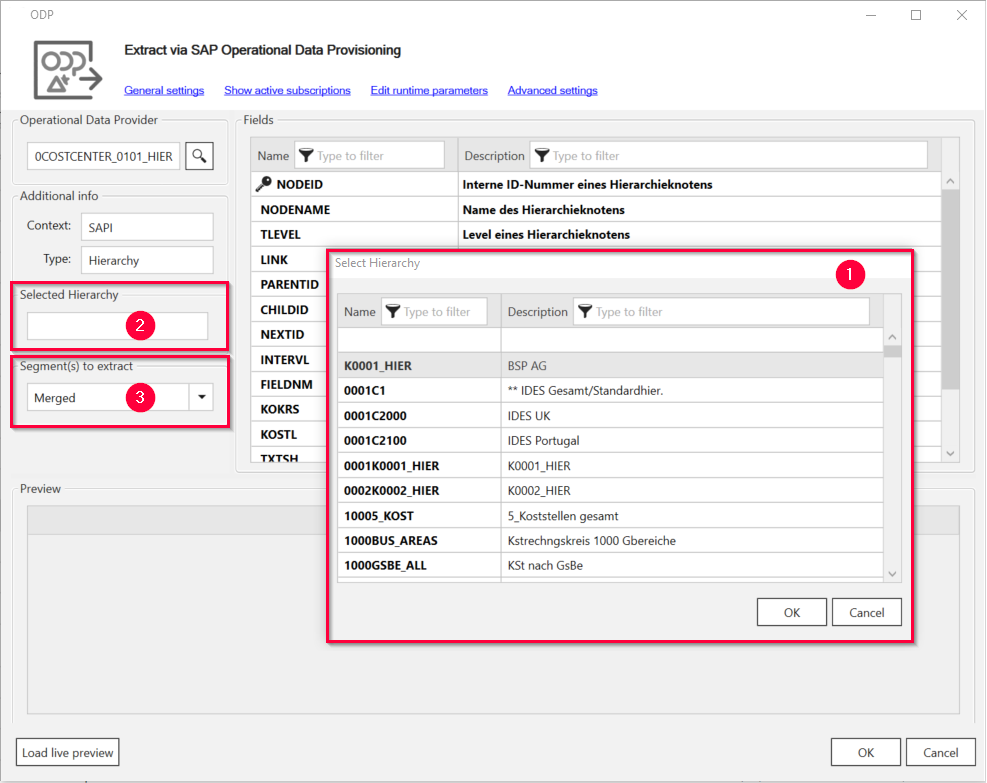
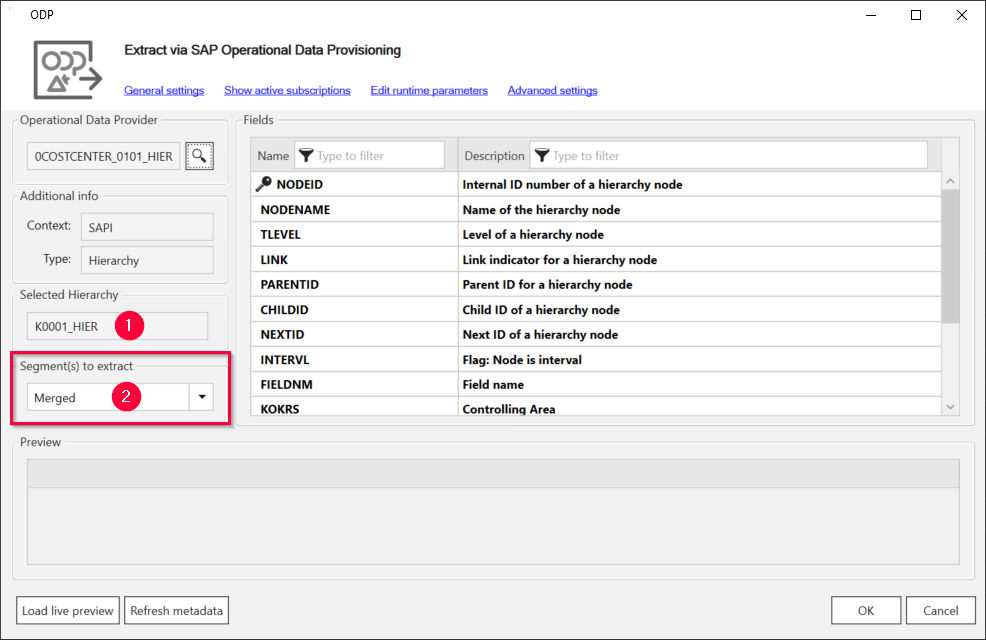
XU: ODP small changes

diff --git a/_includes/_content/de/odp/odp-hierarchy.md b/_includes/_content/de/odp/odp-hierarchy.md
@@ -3,17 +3,16 @@
 
 Wenn das Quellobjekkt vom Typ Hierarchy ist, öffnet sich das Fenster "Select Hierarchy".
 
-1. Wählen Sie aus der Liste (1) eine Hierarchy aus.
-2. Bestätigen Sie die Auswahl mit **[OK]**.
-3. Wählen Sie die Segmente aus, die extrahiert werden sollen (3).
+1. Wählen Sie aus der Liste eine Hierarchy aus.<br>
+![Select-Hierarchy](/img/content/odp/odp-hierarchy-lookup.png){:class="img-responsive"}
+2. Bestätigen Sie die Auswahl mit **[OK]**. Der Name der gewählten Hierarchy wird unter *Selected Hierarchy* angezeigt (1).
+3. Wählen Sie die Segmente aus, die extrahiert werden sollen (2).
 ![Select-Hierarchy](/img/content/odp/select-hierarchy.png){:class="img-responsive"}
 
-**Selected Hierarchy**<br>
-Zeigt den Namen der ausgewählten Hierarchy an (2).
 
-**Segment(s) to extract** <br>
+#### Segment(s) to extract
 Hierarchien werden über die API in 3 Segmente aufgeteilt und bereitgestellt.
-Wählen Sie aus, welche Segmente der Hierarchy extrahiert werden sollen (3).
+Wählen Sie aus, welche Segmente der Hierarchy extrahiert werden sollen (2).
 Die gewählten Segmente werden im Abschnitt *Fields* angezeigt.
 
 | **Merges**      | Alle Segmente haben eine Node ID als Feld. <br> *Merges* setzt alle 3 Segmente automatisch anhand der Node ID zusammen. |

diff --git a/_includes/_content/en/odp/odp-hierarchy.md b/_includes/_content/en/odp/odp-hierarchy.md
@@ -1,17 +1,18 @@
 
 ### Hierarchies
 
-If the source object is of type Hierarchy, the window "Select Hierarchy" opens.
+If the selected source object is of type Hierarchy, the window "Select Hierarchy" opens.
 
-1. Select a Hierarchy (1) from the list of Hierarchies in the "Select Hierarchy" window. 
-2. Confirm your selection with **[OK]**. The name of the selected Hierarchy is displayed under **Selected Hierarchy** (2).
-3. Select which segments to extract (3). 
+1. Select a Hierarchy from the list of Hierarchies in the "Select Hierarchy" window. <br>
+![Select-Hierarchy](/img/content/odp/odp-hierarchy-lookup.png){:class="img-responsive"}
+2. Confirm your selection with **[OK]**. The name of the selected Hierarchy is displayed under *Selected Hierarchy* (1).
+3. Select which segments to extract (2). 
 ![Select-Hierarchy](/img/content/odp/select-hierarchy.png){:class="img-responsive"}
 
 
 #### Segment(s) to extract
 Hierarchies are divided into segments by the API.
-Choose which segments of the Hierarchy to extract (3).
+Choose which segments of the Hierarchy to extract (2).
 The selected data is displayed in the *Fields* section.
 
 | **Merges**      | All segments contain the field Node ID. <br> Using the Node ID *Merges* automatically combines all 3 segments. | 

diff --git a/_includes/_content/en/bapis-and-function-modules/parameters.md b/_includes/_content/en/bapis-and-function-modules/parameters.md
@@ -16,7 +16,7 @@ To use the filtering function, enter text in the headers of the columns **Name**
 
 Scalar fields for inputs are usually set using the following two options:
 - A static constant value (e.g., 1141).
-- A dynamic value set at run-time using a parameter (see [Runtime Parameters](./parametrization)).
+- A dynamic value set at run-time using a parameter, see [Runtime Parameters](./edit-runtime-parameters).
 
 When using runtime parameters, make sure the input matches the data type.<br>
 When entering constant scalar values of a wrong data type, the field is marked red and an error message is displayed (e.g. "Value is not numeric").

diff --git a/_includes/_content/en/xis-specific/bapi/parameters.md b/_includes/_content/en/xis-specific/bapi/parameters.md
@@ -16,7 +16,7 @@ To use the filtering function, enter text in the headers of the columns **Name**
 
 Scalar fields for inputs are usually set using the following two options:
 - A static constant value (e.g., 1141).
-- A dynamic value set at run-time using a parameter (see [Runtime Parameters](./parametrization)).
+- A dynamic value set at run-time using a parameter, see [Runtime Parameters](./parametrization).
 
 When using runtime parameters, make sure the input matches the data type.<br>
 When entering constant scalar values of a wrong data type, the field is marked red and an error message is displayed (e.g. "Value is not numeric").

diff --git a/content/_en/xtract-is/bapi/parameters.md b/content/_en/xtract-is/bapi/parameters.md
@@ -10,4 +10,4 @@ weight: 2
 lang: en_GB
 old_url: /Xtract-IS-EN/default.aspx?pageid=scalar-parameters
 ---
-{% include _content/en/bapis-and-function-modules/parameters.md %}
+{% include _content/en/xis-specific/bapi/parameters.md %}
